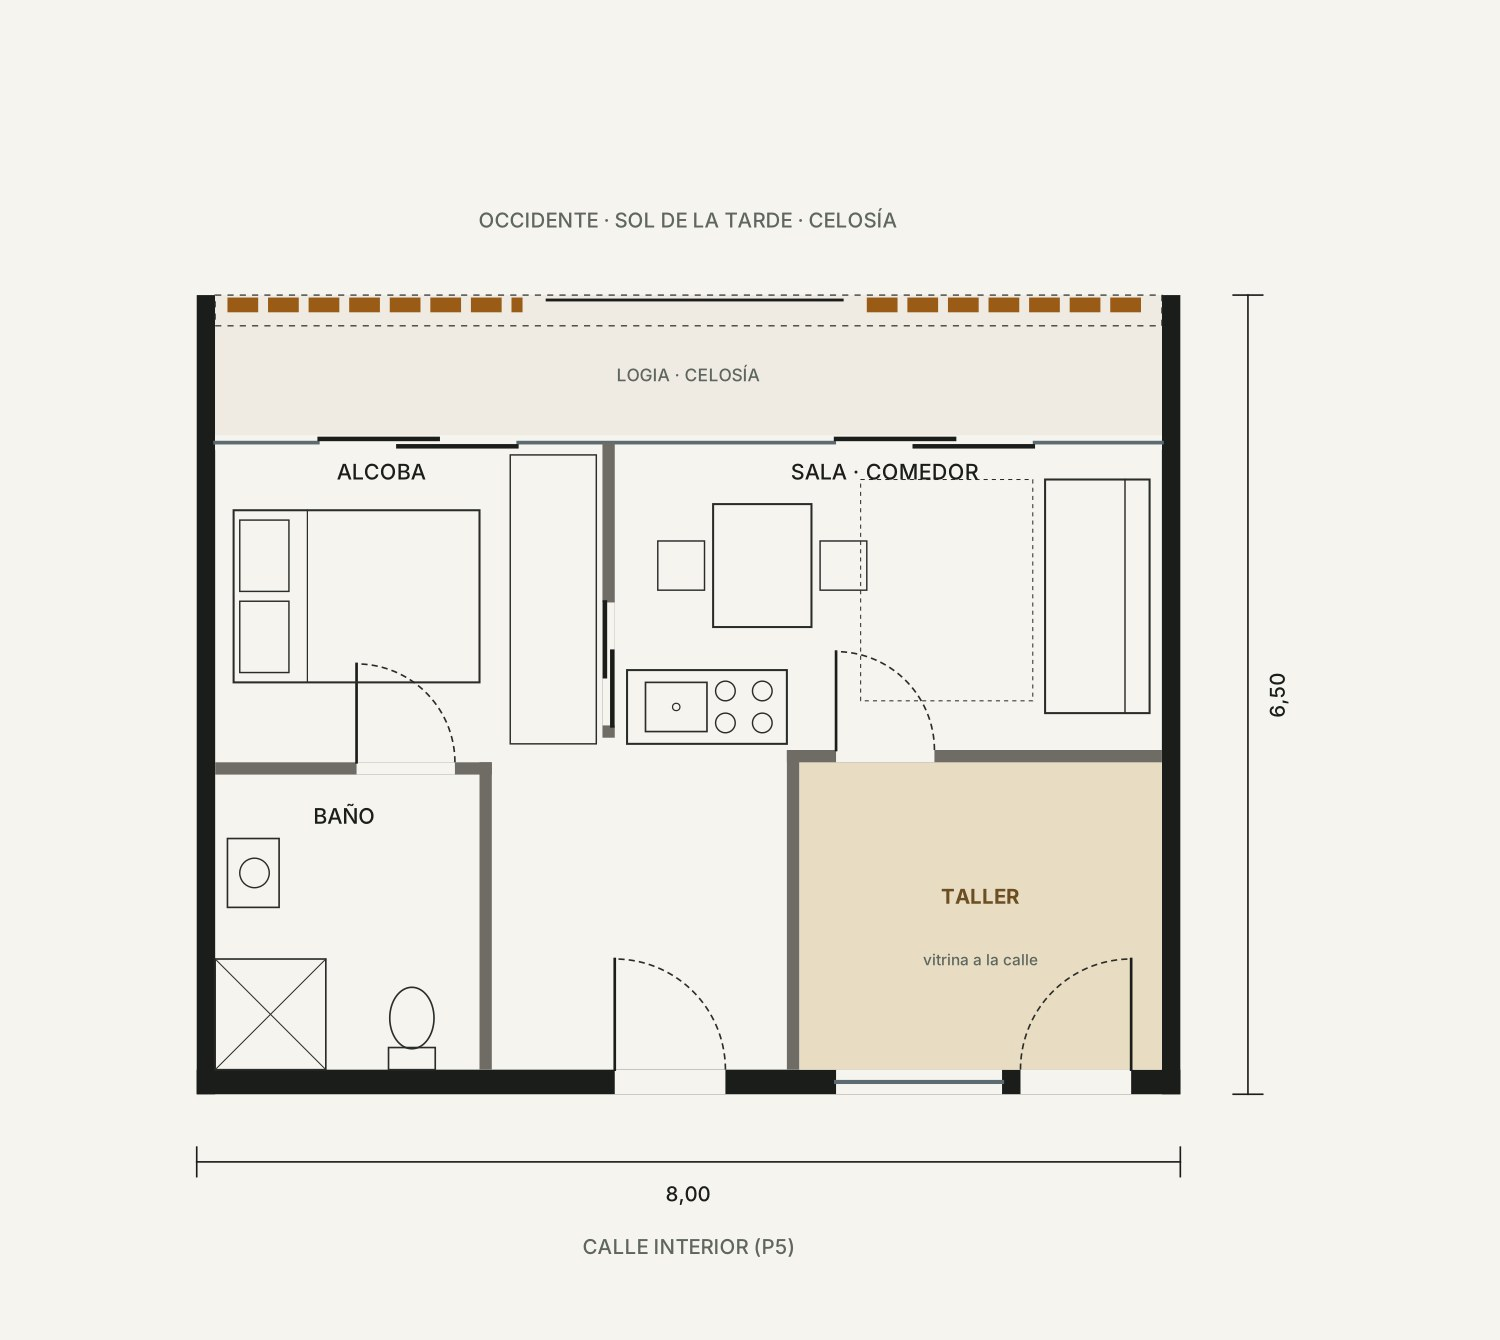
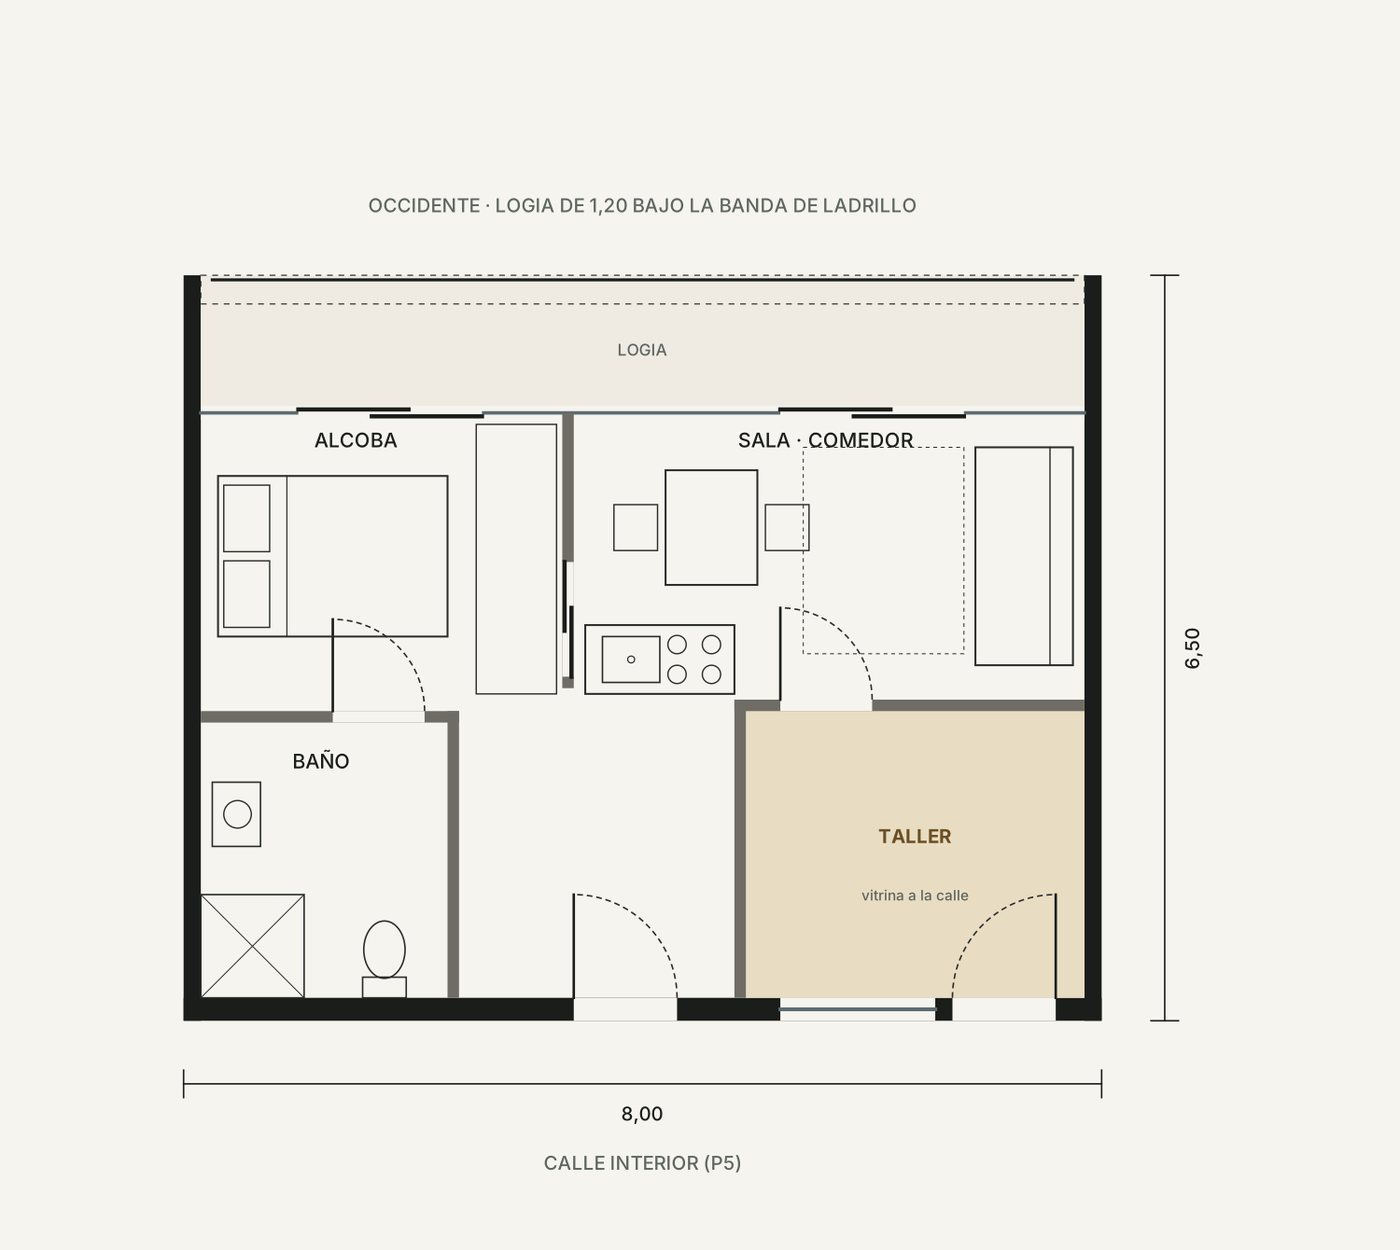
La Ola: occidente sin celosia, logias profundas
Claude-Session: https://claude.ai/code/session_01Rs9TY9ki2YSVtRsSTGuvtX

Changed region(s): [[0.2764, 0.156, 0.645, 0.1872], [0.5529, 0.2184, 0.7679, 0.2496], [0.1536, 0.2184, 0.3686, 0.2496]]

diff --git a/la-ola/index.html b/la-ola/index.html
@@ -276,9 +276,9 @@ footer{border-top:1px solid var(--rule);padding-top:16px;display:flex;flex-wrap:
 </section>
 
 <section class="sec">
-  <div class="lado"><span class="rot">La fachada</span><h2>Bandejas de ladrillo</h2><p class="nota">Cada módulo es una bandeja: banda de ladrillo arriba, vidrio retirado abajo y la cubierta libre como terraza o jardín. La mitad de los módulos son cajas de ladrillo con ventana de antepecho. Occidente lleva celosía, oriente jardinera, el norte una terraza fina hacia el río. Lo común se viste distinto: el piso de todos lleva la fachada origami, módulos de seis triángulos que se pliegan sobre rieles (más cerrados al occidente, abiertos hacia el río), y el primer piso abre a la Carrera 8 con pilares de ladrillo y un alero corrido.</p></div>
+  <div class="lado"><span class="rot">La fachada</span><h2>Bandejas de ladrillo</h2><p class="nota">Cada módulo es una bandeja: banda de ladrillo arriba, vidrio retirado abajo y la cubierta libre como terraza o jardín. La mitad de los módulos son cajas de ladrillo con ventana de antepecho. Occidente lleva una logia profunda bajo la banda (el sol de la tarde lo frenan la banda y la terraza de arriba), oriente jardinera, el norte una terraza fina hacia el río. Lo común se viste distinto: el piso de todos lleva la fachada origami, módulos de seis triángulos que se pliegan sobre rieles (más cerrados al occidente, abiertos hacia el río), y el primer piso abre a la Carrera 8 con pilares de ladrillo y un alero corrido.</p></div>
   <div class="cuerpo">
-    <figure class="plano"><img src="img/v4/fachada-so.jpg" alt="Axonometría desde el suroccidente: módulos de ladrillo con logias, celosías y cubiertas verdes" loading="lazy"><figcaption>Desde el suroccidente</figcaption></figure>
+    <figure class="plano"><img src="img/v4/fachada-so.jpg" alt="Axonometría desde el suroccidente: módulos de ladrillo con logias profundas y cubiertas verdes" loading="lazy"><figcaption>Desde el suroccidente</figcaption></figure>
     <div class="galeria">
       <figure><img src="img/v4/fachada-se.jpg" alt="Axonometría desde el suroriente, hacia la calle" loading="lazy" style="aspect-ratio:auto;object-fit:contain"><figcaption>Suroriente · la calle</figcaption></figure>
       <figure><img src="img/v4/fachada-no.jpg" alt="Axonometría desde el noroccidente, hacia el río Fucha" loading="lazy" style="aspect-ratio:auto;object-fit:contain"><figcaption>Noroccidente · el río</figcaption></figure>
@@ -296,7 +296,7 @@ footer{border-top:1px solid var(--rule);padding-top:16px;display:flex;flex-wrap:
 <section class="sec ancha">
   <div class="lado"><span class="rot">Tipologías</span><h2>Cada apartamento con su fachada</h2><p class="nota">Un apartamento real de cada tipo, dibujado en su lugar del edificio: la logia o la caja de ladrillo que le toca, y el módulo productivo con vitrina a la calle interior en los pisos 4 a 7. Muros interiores livianos para que la planta cambie con la familia.</p></div>
   <div class="cuerpo tipos">
-    <figure class="plano"><img src="img/v4/apto-a.jpg" alt="Apartamento A productivo de 52 m2 con taller y vitrina a la calle interior, alcoba y sala hacia una logia con celosía al occidente" loading="lazy"><figcaption><b>A productiva · 52 m²</b> · taller con vitrina · logia con celosía</figcaption></figure>
+    <figure class="plano"><img src="img/v4/apto-a.jpg" alt="Apartamento A productivo de 52 m2 con taller y vitrina a la calle interior, alcoba y sala hacia una logia profunda al occidente" loading="lazy"><figcaption><b>A productiva · 52 m²</b> · taller con vitrina · logia al occidente</figcaption></figure>
     <figure class="plano"><img src="img/v4/apto-b.jpg" alt="Apartamento B productivo de 72 m2 con tienda, dos alcobas y logia al occidente" loading="lazy"><figcaption><b>B productiva · 72 m²</b> · tienda, alcoba y estudio</figcaption></figure>
     <figure class="plano"><img src="img/v4/apto-b6.jpg" alt="Apartamento B6 amoblado de 56 m2 en caja de ladrillo con ventanas verticales de antepecho" loading="lazy"><figcaption><b>B6 amoblado · 56 m²</b> · caja de ladrillo, ventana de antepecho</figcaption></figure>
     <figure class="plano"><img src="img/v4/apto-c.jpg" alt="Apartamento C accesible de 64 m2: puertas corredizas, baño con giro de silla de ruedas y logia con jardinera a los cerros" loading="lazy"><figcaption><b>C accesible · 64 m²</b> · giro de 1,50 en baño, cocina y alcoba</figcaption></figure>
